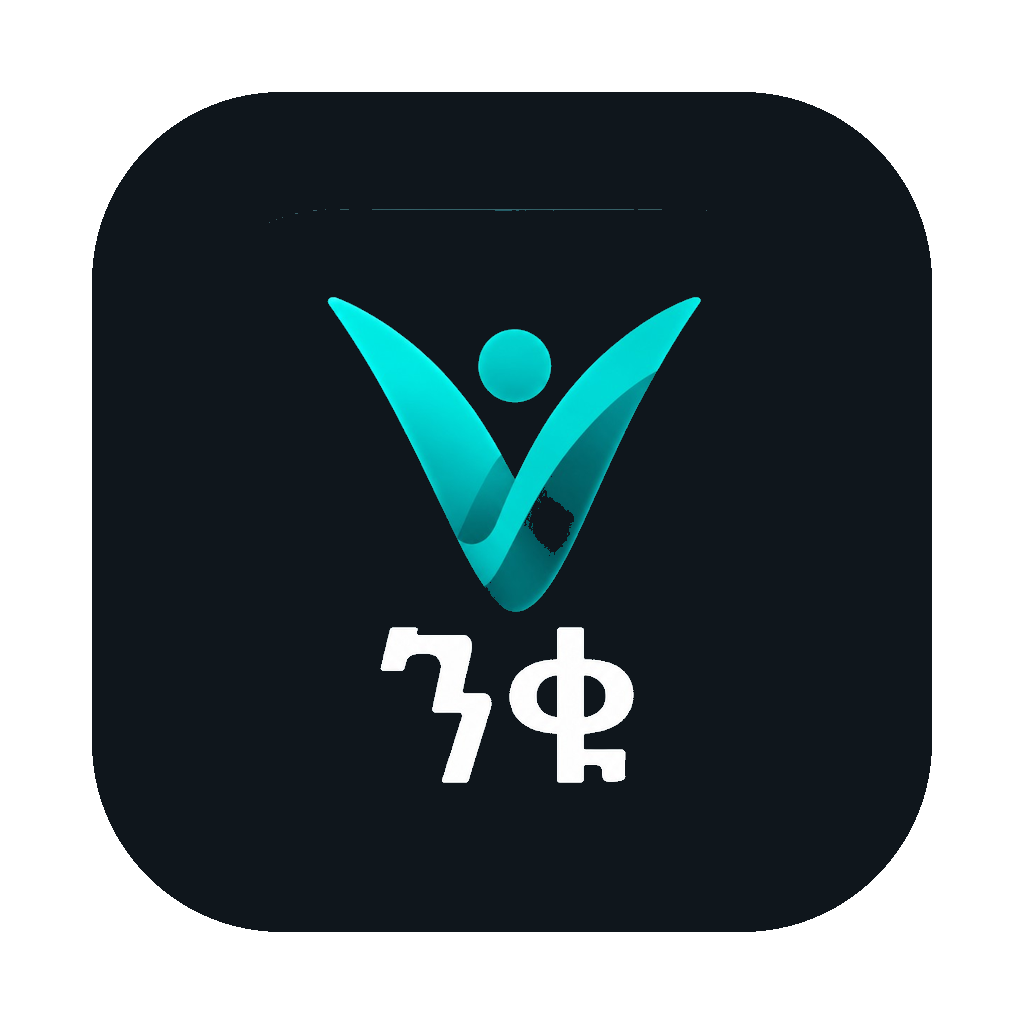
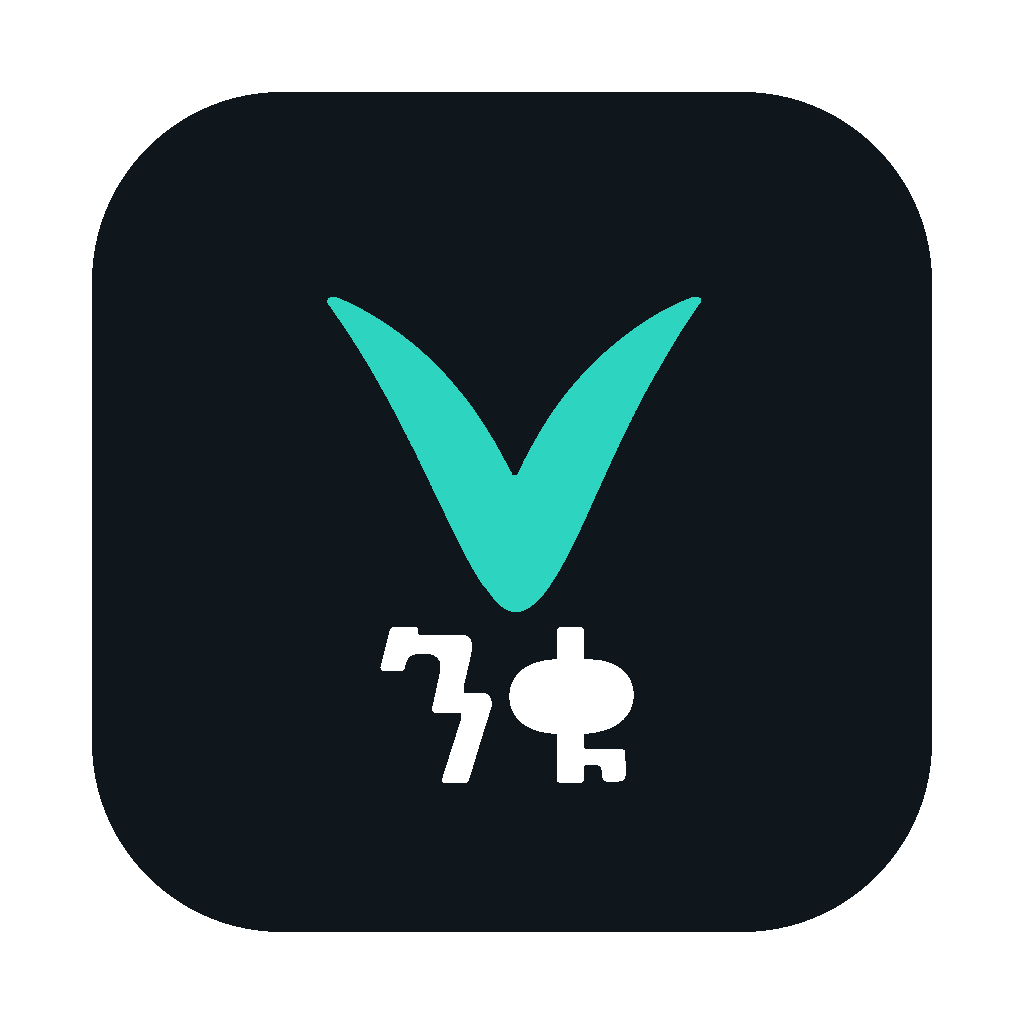
new changes22

Changed region(s): [[0.3125, 0.2812, 0.6875, 0.5938], [0.5, 0.6562, 0.5938, 0.7188]]

diff --git a/app/login.tsx b/app/login.tsx
@@ -32,8 +32,6 @@ import { API_BASE_URL } from '@/src/config/api';
 
 const AnimatedPressable = Animated.createAnimatedComponent(Pressable);
 
-type Field = 'identifier' | 'password';
-
 export default function LoginScreen() {
   const { login, logout } = useAuth();
   const { colors: c } = useTheme();
@@ -45,7 +43,6 @@ export default function LoginScreen() {
   const [identifier, setIdentifier] = useState('');
   const [password, setPassword] = useState('');
   const [showPassword, setShowPassword] = useState(false);
-  const [focused, setFocused] = useState<Field | null>(null);
   const [error, setError] = useState('');
   const [loading, setLoading] = useState(false);
   const passwordRef = useRef<RNTextInput>(null);
@@ -76,15 +73,10 @@ export default function LoginScreen() {
     transform: [{ scale: 1 - pressed.value * 0.02 }],
   }));
 
-  const fieldRing = (field: Field) => ({
-    // Filled pad (not a stroked border) — Android draws rounded strokes unevenly at corners.
-    backgroundColor: focused === field ? 'rgba(45, 212, 191, 0.28)' : 'transparent',
-  });
-
-  const fieldColors = (field: Field) => ({
-    backgroundColor: focused === field ? 'rgba(255, 255, 255, 0.14)' : 'rgba(255, 255, 255, 0.07)',
-    borderColor: focused === field ? 'rgba(94, 234, 212, 0.55)' : 'rgba(255, 255, 255, 0.2)',
-  });
+  const fieldShell = {
+    backgroundColor: 'rgba(255, 255, 255, 0.07)',
+    borderColor: 'rgba(255, 255, 255, 0.2)',
+  };
 
   const handleSubmit = async () => {
     setError('');
@@ -135,8 +127,8 @@ export default function LoginScreen() {
                 </Text>
               ) : null}
 
-              <View style={[s.inputRing, fieldRing('identifier')]}>
-                <View style={[s.inputShell, fieldColors('identifier')]}>
+              <View style={s.inputRing}>
+                <View style={[s.inputShell, fieldShell]}>
                   <TextInput
                     latin={identifierLatin}
                     autoCapitalize="none"
@@ -146,19 +138,19 @@ export default function LoginScreen() {
                     returnKeyType="next"
                     value={identifier}
                     onChangeText={setIdentifier}
-                    onFocus={() => setFocused('identifier')}
-                    onBlur={() => setFocused(null)}
                     onSubmitEditing={() => passwordRef.current?.focus()}
                     style={[s.inputField, { color: '#f8fafc' }]}
                     placeholder={t('auth.identifier')}
                     placeholderTextColor="rgba(226, 232, 240, 0.45)"
                     accessibilityLabel={t('auth.identifier')}
+                    selectionColor="rgba(226, 232, 240, 0.35)"
+                    cursorColor="#f8fafc"
                   />
                 </View>
               </View>
 
-              <View style={[s.inputRing, s.inputRingTight, fieldRing('password')]}>
-                <View style={[s.inputShell, fieldColors('password')]}>
+              <View style={[s.inputRing, s.inputRingTight]}>
+                <View style={[s.inputShell, fieldShell]}>
                   <TextInput
                     latin={passwordLatin}
                     ref={passwordRef}
@@ -168,13 +160,13 @@ export default function LoginScreen() {
                     returnKeyType="go"
                     value={password}
                     onChangeText={setPassword}
-                    onFocus={() => setFocused('password')}
-                    onBlur={() => setFocused(null)}
                     onSubmitEditing={handleSubmit}
                     style={[s.inputField, { color: '#f8fafc' }]}
                     placeholder={t('auth.password')}
                     placeholderTextColor="rgba(226, 232, 240, 0.45)"
                     accessibilityLabel={t('auth.password')}
+                    selectionColor="rgba(226, 232, 240, 0.35)"
+                    cursorColor="#f8fafc"
                   />
                   <Pressable
                     onPress={() => setShowPassword((v) => !v)}
@@ -186,7 +178,7 @@ export default function LoginScreen() {
                     <Ionicons
                       name={showPassword ? 'eye-off-outline' : 'eye-outline'}
                       size={isTablet ? 22 : 20}
-                      color={focused === 'password' ? c.accentText : 'rgba(226, 232, 240, 0.45)'}
+                      color="rgba(226, 232, 240, 0.45)"
                     />
                   </Pressable>
                 </View>

diff --git a/src/components/LoginBrandPanel.tsx b/src/components/LoginBrandPanel.tsx
@@ -4,7 +4,7 @@ import { useTranslation } from 'react-i18next';
 import { useTheme } from '@/src/context/PreferencesContext';
 import { useResponsiveLayout } from '@/src/hooks/useResponsiveLayout';
 
-const APP_ICON = require('@/assets/images/icon.png');
+const APP_ICON = require('@/assets/images/login-mark.png');
 
 export function LoginBrandPanel() {
   const { t, i18n } = useTranslation();
@@ -16,7 +16,7 @@ export function LoginBrandPanel() {
 
   return (
     <View style={s.wrap}>
-      {/* Same asset as the home-screen / launcher icon */}
+      {/* Flat mark only — no squircle plate (avoids edge line on the login gradient) */}
       <Image source={APP_ICON} style={s.icon} resizeMode="contain" accessibilityLabel="ንቁ" />
       <Text latin={sloganLatin} style={[s.slogan, { color: c.accentText }]}>
         {t('auth.brandSlogan')}

diff --git a/src/utils/scheduleWithUndo.ts b/src/utils/scheduleWithUndo.ts
@@ -36,6 +36,7 @@ export function scheduleDeleteWithUndo({
         title: t(`${committedKey}.title`),
         subtitle: t(`${committedKey}.subtitle`, subtitleParams),
         variant: 'danger',
+        durationMs: 1500,
       });
     } catch (err) {
       onUndo();
